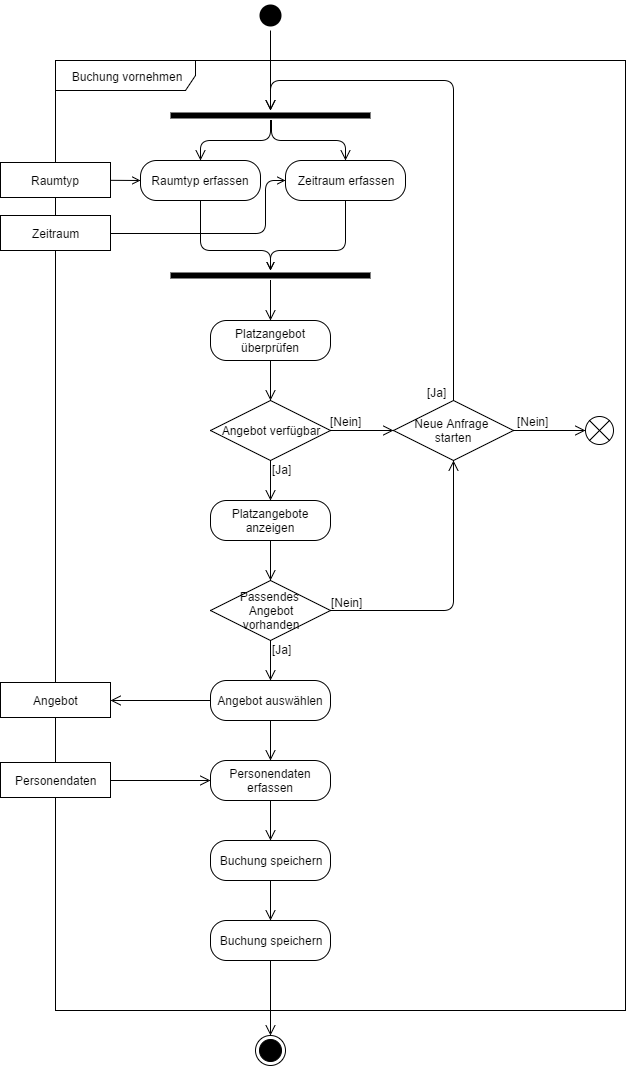
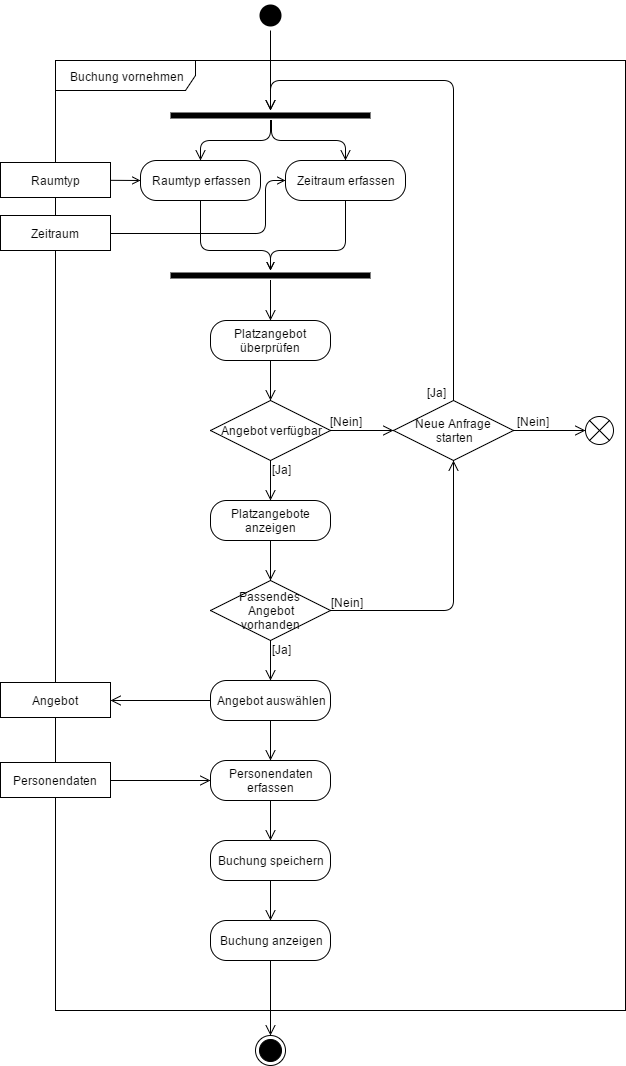
Implement block 4 task 1

diff --git a/README.md b/README.md
@@ -707,7 +707,85 @@ Um die Aufgabe zu lösen mussten folgende Annahmen getroffen werden:
  - Beim Durchführen der Buchung wird die Zeitspanne aus dem Überprüfen, ob ein freies Zimmer vorhanden ist.
 
 Es geht um den einzelnen Anwendungsfall `Buchung vornehmen`.
+
 ![Buchung vornehmen - Anwendungsfalldiagram](./docs/diagrams/4-buchung-use-case.png)
 
 Die Aktivität sieht wie folgt aus:
+
 ![Buchung vornehmen - Aktivitätsdiagramm](./docs/diagrams/4-buchung-activity.png)
+
+Dieser Ablauf lässt sich in mehrere Abschnitte unterteilen. Aus diesem Grund eignet sich ein sogenanter 
+[Assistent (Wizard)](https://en.wikipedia.org/wiki/Wizard_(software)) welcher einem durch den Anwendungsfall führt.
+
+![Platzangebot überprüfen](./docs/guis/4-buchung-assistent/platzangebot_berprfen.png)
+
+Für diese Anzeige werden alle Raumtypen benötigt.
+
+    START TRANSACTION;
+    SELECT rt.name FROM room_type AS rt;
+    COMMIT;
+
+Beim Klick auf `Weiter` werden mit den eingegebenen Daten die verfügbaren Räume geholt und gelockt.
+
+    START TRANSACTION;
+    SELECT r.name, r.description FROM room AS r
+      INNER JOIN room_type AS rt ON r.room_type_id = rt.id AND rt.name = 'Doppelzimmer'
+      LEFT JOIN booking_room AS br ON r.id = br.room_id
+      LEFT JOIN booking AS b ON br.booking_id = b.id
+      WHERE (b.checkin <= '2018-02-14') AND (b.checkout >= '2017-02-12')
+      FOR UPDATE;
+
+Und nun noch die Daten abholen.
+
+    SELECT r.name, r.description FROM room AS r
+      INNER JOIN room_type AS rt ON r.room_type_id = rt.id AND rt.name = 'Doppelzimmer'
+      LEFT JOIN booking_room AS br ON r.id = br.room_id
+      LEFT JOIN booking AS b ON br.booking_id = b.id
+      WHERE (b.checkin <= '2018-02-14') AND (b.checkout >= '2017-02-12');
+
+
+![Platzangebot (kein Angebot)](./docs/guis/4-buchung-assistent/platzangebot_berprfen_kein_angebot.png)
+
+Gibt es keine freien Zimmer zur Anfrage, so wird dieser Fehler angezeigt und die Suchdaten können angepasst werden.
+
+![Platzangebot anzeigen](./docs/guis/4-buchung-assistent/platzangebot_anzeigen.png)
+
+Beim Klick auf `Weiter` wird der ausgewählte Raum gelockt.
+
+    SELECT r.name, r.description FROM room AS r
+      INNER JOIN room_type AS rt ON r.room_type_id = rt.id AND rt.name = 'Doppelzimmer'
+      LEFT JOIN booking_room AS br ON r.id = br.room_id
+      LEFT JOIN booking AS b ON br.booking_id = b.id
+      WHERE (b.checkin <= '2018-02-14') AND (b.checkout >= '2017-02-12') AND (r.id = 23)
+      FOR UPDATE;
+
+![Personendaten erfassen](./docs/guis/4-buchung-assistent/personendaten_erfassen.png)
+
+Nun kann die Person erfasst werden. Beim Klick auf `Buchung speichern` werden die Daten eingefügt und die Buchung erstellt:
+
+    INSERT IGNORE INTO `person` (`forename`, `surname`, `email`) VALUES
+      ('Hans', 'Meier', 'example@examle.com');
+    INSERT IGNORE INTO `phone_number` (`phone_number_type_id`, `number`) VALUES
+      (2, '+41781234567');
+    INSERT IGNORE INTO `person_phone` (`person_id`, `phone_number_id`) VALUES
+      (1, 1),
+    INSERT IGNORE INTO `place` (`name`, `zip`, `country_id`) VALUES
+      ('Eglisau', '8193', 211);
+    INSERT IGNORE INTO `address` (`street`, `place_id`) VALUES
+      ('Frohmatt 22', 3),
+    INSERT IGNORE INTO `person_address` (`address_id`, `person_id`) VALUES
+      (1, 1),
+    INSERT INTO `booking` (`checkin`, `checkout`, `responsible_person_id`) VALUES
+      ('2017-03-15', '2017-03-30', 1);
+    INSERT INTO `booking_room` (`booking_id`, `room_id`) VALUES
+      (1, 1);
+    COMMIT;
+
+Dazwischen kommen natürlich noch jeweilige `SELECT`-Statements um die `ID` der erstellten Einträge zu holen. Es ist 
+vielleicht auch sinnvoll `INSERT ... ON DUPLICATE KEY UPDATE` zu verwenden.
+
+![Buchung anzeigen](./docs/guis/4-buchung-assistent/buchung_anzeigen.png)
+
+Für die Anzeige wird die Buchung wieder selektiert:
+
+    SELECT ... FROM booking WHERE booking.id = 1; 
